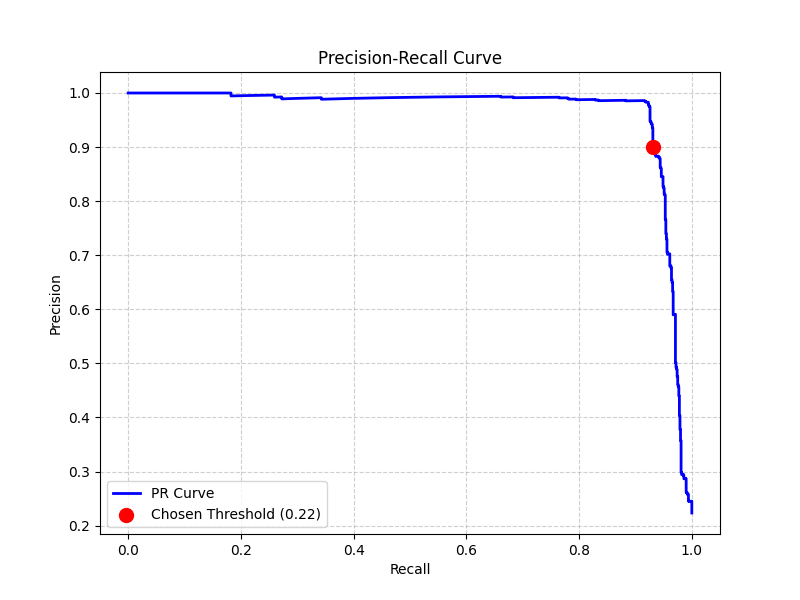
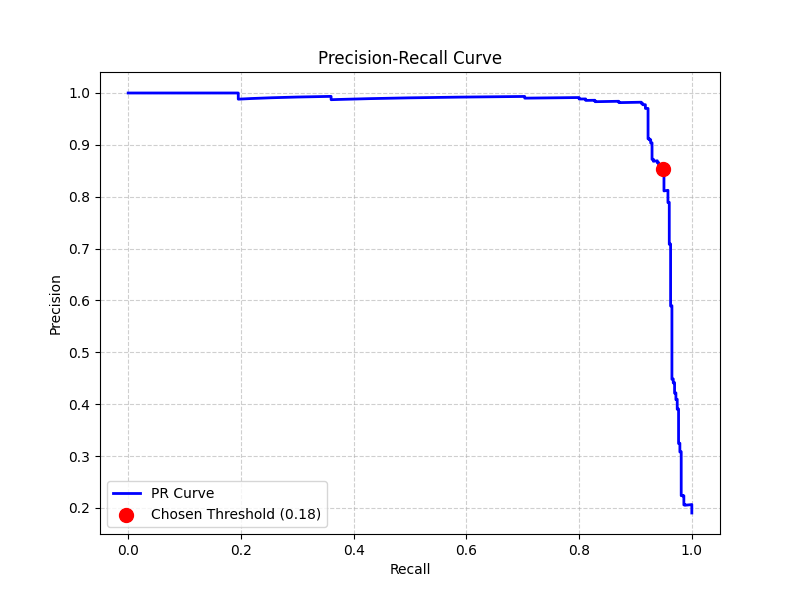
implement strict 3-way data split to prevent evaluation leakage, update README metrics and images

diff --git a/src/evaluate.py b/src/evaluate.py
@@ -43,9 +43,11 @@ def find_optimal_threshold(y_true: NDArray[np.int_], y_probs: NDArray[np.float64
 
 def main() -> None:
     """Evaluates the trained model on the test set with dynamic thresholding and alarm cooldown."""
-    logging.info("Loading test data...")
+    logging.info("Loading validation and test data...")
     try:
         model = joblib.load(config.MODEL_PATH)
+        X_val = np.load(os.path.join(config.DATA_DIR, 'X_val.npy'))
+        y_val = np.load(os.path.join(config.DATA_DIR, 'y_val.npy'))
         X_test = np.load(os.path.join(config.DATA_DIR, 'X_test.npy'))
         y_test = np.load(os.path.join(config.DATA_DIR, 'y_test.npy'))
         t_test = np.load(os.path.join(config.DATA_DIR, 't_test.npy'))
@@ -56,30 +58,35 @@ def main() -> None:
 
     os.makedirs(config.RESULTS_DIR, exist_ok=True)
 
-    y_probs = model.predict_proba(X_test)[:, 1]
+    y_probs_val = model.predict_proba(X_val)[:, 1]
+    optimal_thresh = find_optimal_threshold(y_val, y_probs_val, target_precision=config.TARGET_PRECISION)
+    logging.info(f"Optimal threshold calculated from VALIDATION set: {optimal_thresh:.3f}")
 
-    pr_auc = average_precision_score(y_test, y_probs)
-    roc_auc = roc_auc_score(y_test, y_probs)
-    logging.info(f"Model AUC Metrics - PR-AUC: {pr_auc:.3f} | ROC-AUC: {roc_auc:.3f}")
+    y_probs_test = model.predict_proba(X_test)[:, 1]
 
-    optimal_thresh = find_optimal_threshold(y_test, y_probs, target_precision=config.TARGET_PRECISION)
-    logging.info(f"Optimal threshold calculated: {optimal_thresh:.3f}")
+    pr_auc = average_precision_score(y_test, y_probs_test)
+    roc_auc = roc_auc_score(y_test, y_probs_test)
+    logging.info(f"Test Set AUC Metrics - PR-AUC: {pr_auc:.3f} | ROC-AUC: {roc_auc:.3f}")
 
-    y_pred_raw = (y_probs >= optimal_thresh).astype(int)
+    y_pred_raw = (y_probs_test >= optimal_thresh).astype(int)
     y_pred_filtered = apply_alarm_cooldown(y_pred_raw, config.COOLDOWN_STEPS)
 
     model_report = classification_report(y_test, y_pred_raw, labels=[0, 1], target_names=["Normal", "Incident"])
 
-    logging.info(f"\nMODEL EVALUATION (Raw Predictions):\n{model_report}")
+    logging.info(f"\nMODEL EVALUATION ON TEST SET (Raw Predictions):\n{model_report}")
 
     with open(os.path.join(config.RESULTS_DIR, 'classification_report.txt'), 'w') as f:
-        f.write(f"Optimal Threshold: {optimal_thresh:.3f}\n\n")
+        f.write(f"Optimal Threshold (from Validation Set): {optimal_thresh:.3f}\n\n")
         f.write(model_report)
 
-    plot_predictions(t_test, series_test, y_test, y_pred_filtered, title=f"Predictive Maintenance: Dynamic Threshold ({optimal_thresh:.2f})", save_path=os.path.join(config.RESULTS_DIR, 'predictions_plot.png'))
-    plot_pr_curve(y_test, y_probs, optimal_thresh, save_path=os.path.join(config.RESULTS_DIR, 'pr_curve.png'))
-    plot_feature_importances(model, config.FEATURE_NAMES, save_path=os.path.join(config.RESULTS_DIR, 'feature_importances.png'))
-    plot_confusion_matrix(y_test, y_pred_raw, title=f"Confusion Matrix (Thresh: {optimal_thresh:.2f})", save_path=os.path.join(config.RESULTS_DIR, 'confusion_matrix.png'))
+    plot_predictions(t_test, series_test, y_test, y_pred_filtered,
+                     title=f"Predictive Maintenance: Dynamic Threshold ({optimal_thresh:.2f})",
+                     save_path=os.path.join(config.RESULTS_DIR, 'predictions_plot.png'))
+    plot_pr_curve(y_test, y_probs_test, optimal_thresh, save_path=os.path.join(config.RESULTS_DIR, 'pr_curve.png'))
+    plot_feature_importances(model, config.FEATURE_NAMES,
+                             save_path=os.path.join(config.RESULTS_DIR, 'feature_importances.png'))
+    plot_confusion_matrix(y_test, y_pred_raw, title=f"Confusion Matrix (Thresh: {optimal_thresh:.2f})",
+                          save_path=os.path.join(config.RESULTS_DIR, 'confusion_matrix.png'))
 
     logging.info(f"Evaluation complete")
 

diff --git a/src/prepare_data.py b/src/prepare_data.py
@@ -10,7 +10,7 @@ logging.basicConfig(level=logging.INFO, format='%(asctime)s - %(levelname)s - %(
 
 
 def main() -> None:
-    """Generates synthetic data, applies multiscale sliding windows, and saves train/test splits to disk."""
+    """Generates synthetic data, applies multiscale sliding windows, and saves train/val/test splits to disk."""
     logging.info("Creating directories...")
     os.makedirs(config.DATA_DIR, exist_ok=True)
     os.makedirs(config.MODELS_DIR, exist_ok=True)
@@ -28,18 +28,23 @@ def main() -> None:
 
     logging.info(f"Full Dataset Class distribution: {Counter(y)}")
 
-    split_index = int(len(X) * 0.7)
-    X_train, X_test = X[:split_index], X[split_index:]
-    y_train, y_test = y[:split_index], y[split_index:]
+    # 3-way split: 70% Train, 15% Val, 15% Test
+    split_idx_1 = int(len(X) * 0.70)
+    split_idx_2 = int(len(X) * 0.85)
 
-    test_start_index = split_index + config.LONG_WINDOW
+    X_train, X_val, X_test = X[:split_idx_1], X[split_idx_1:split_idx_2], X[split_idx_2:]
+    y_train, y_val, y_test = y[:split_idx_1], y[split_idx_1:split_idx_2], y[split_idx_2:]
+
+    test_start_index = split_idx_2 + config.LONG_WINDOW
     t_test = t[test_start_index: test_start_index + len(y_test)]
     series_test = series[test_start_index: test_start_index + len(y_test)]
 
     logging.info("Saving datasets...")
     np.save(os.path.join(config.DATA_DIR, 'X_train.npy'), X_train)
+    np.save(os.path.join(config.DATA_DIR, 'X_val.npy'), X_val)
     np.save(os.path.join(config.DATA_DIR, 'X_test.npy'), X_test)
     np.save(os.path.join(config.DATA_DIR, 'y_train.npy'), y_train)
+    np.save(os.path.join(config.DATA_DIR, 'y_val.npy'), y_val)
     np.save(os.path.join(config.DATA_DIR, 'y_test.npy'), y_test)
     np.save(os.path.join(config.DATA_DIR, 't_test.npy'), t_test)
     np.save(os.path.join(config.DATA_DIR, 'series_test.npy'), series_test)

diff --git a/tests/test_pipeline.py b/tests/test_pipeline.py
@@ -1,5 +1,6 @@
 import os
 import sys
+import warnings
 import numpy as np
 from sklearn.ensemble import RandomForestClassifier
 
@@ -31,7 +32,7 @@ def test_calculate_trend() -> None:
 def test_create_multiscale_sliding_window_output_shape() -> None:
     """Ensures the feature matrix dimensions match the expected feature count and series length."""
     series = np.ones(200)
-    labels = np.zeros(200)
+    labels = np.zeros(200, dtype=int)
     short_w, long_w, horizon = 10, 50, 5
 
     X, y = create_multiscale_sliding_window(series, labels, short_w, long_w, horizon)
@@ -46,7 +47,7 @@ def test_create_multiscale_sliding_window_output_shape() -> None:
 def test_create_multiscale_sliding_window_label_correctness() -> None:
     """Validates that the target 'y' correctly identifies anomalies in the future horizon."""
     series = np.zeros(200)
-    labels = np.zeros(200)
+    labels = np.zeros(200, dtype=int)
 
     labels[100] = 1
 
@@ -76,7 +77,10 @@ def test_find_optimal_threshold_edge_cases() -> None:
 
     y_true_neg = np.array([0, 0, 0, 0])
     y_probs_neg = np.array([0.1, 0.2, 0.3, 0.4])
-    thresh_neg = find_optimal_threshold(y_true_neg, y_probs_neg, target_precision=0.90)
+
+    with warnings.catch_warnings():
+        warnings.simplefilter("ignore")
+        thresh_neg = find_optimal_threshold(y_true_neg, y_probs_neg, target_precision=0.90)
 
     assert thresh_neg == 0.4
 

diff --git a/README.md b/README.md
@@ -61,6 +61,8 @@ This is formulated as a binary classification problem using a **sliding-window a
 * **Target ($y$):** $1$ if an incident occurs anywhere in the prediction horizon `[t, t + H]`, otherwise $0$.
 * **Input Matrix ($X$):** Extracted features from the historical window `[t - W, t]`.
 * **Multiscale Windows:** To capture both local anomalies and global context, the model extracts features from two concurrent windows ending at time `t`: a **Short Window** (`W = 20`) to capture sudden behavioral shifts, and a **Long Window** (`W = 100`) to establish a baseline.
+* **Hyperparameter Sensitivity:** Configuration values like HORIZON = 10 and SHORT_WINDOW = 20 were selected as a reasonable lookahead baseline for SRE alerting. A formal grid-search sweep across variable horizons and window lengths is deferred to production tuning, where real-world SLA constraints would dictate the exact operational tradeoff between warning time and model precision.
+
 
 ---
 
@@ -105,20 +107,22 @@ In cloud operations, false positives cause "alert fatigue," leading engineers to
 
 The model was evaluated on a chronologically held-out test set (30% of total data).
 
-**Global ML Metrics:**
-* **PR-AUC:** 0.965
-* **ROC-AUC:** 0.977
+**Global ML Metrics (Test Set):**
+* **PR-AUC:** 0.961
+* **ROC-AUC:** 0.974
 
-**Raw Classification Report (Optimal Threshold: 0.22)**
+**Raw Classification Report (Optimal Validation Threshold: 0.180)**
+
+The probability threshold was strictly calibrated on a separate Validation Set to target 0.90 precision, and then evaluated here on the completely untouched Test Set to guarantee zero data leakage).
 
 | Class | Precision | Recall | F1-Score | Support |
 | :--- | :---: | :---: | :---: | :---: |
-| **Normal** | 0.98 | 0.97 | 0.98 | 3469 |
-| **Incident** | 0.90 | 0.93 | 0.92 | 998 |
+| **Normal** | 0.99 | 0.96 | 0.97 | 1809 |
+| **Incident** | 0.86 | 0.95 | 0.90 | 425 |
 | | | | | |
-| **Accuracy** | | | **0.96** | 4467 |
-| **Macro Avg** | 0.94 | 0.95 | 0.95 | 4467 |
-| **Weighted Avg** | 0.96 | 0.96 | 0.96 | 4467 |
+| **Accuracy** | | | **0.96** | 2234 |
+| **Macro Avg** | 0.92 | 0.96 | 0.94 | 2234 |
+| **Weighted Avg** | 0.96 | 0.96 | 0.96 | 2234 |
 
 
 
@@ -129,7 +133,7 @@ The model was evaluated on a chronologically held-out test set (30% of total dat
 | :---: | :---: |
 | <img src="images/confusion_matrix.png" height="300"> | <img src="images/pr_curve.png" height="300"> |
 
-<p align="center"><i>(Left: The Confusion Matrix showing absolute predictions on the held-out test set. Right: The PR-Curve demonstrating the dynamic threshold selection (Red Dot) to guarantee the 0.90 precision floor).</i></p>
+<p><i>(Left: The Confusion Matrix showing absolute predictions on the held-out test set. Right: The PR-Curve demonstrating the dynamic threshold selection (Red Dot) to guarantee the 0.90 precision floor).</i></p>
 
 
 ### Visualizing the Alerts
@@ -143,6 +147,9 @@ An analysis of the Random Forest feature importances reveals that short-term SRE
 ![Feature Importances](images/feature_importances.png)
 
 To optimize the inference pipeline for production, dead-weight absolute long-term statistics (like `Long_Min` and `Long_p90`) were aggressively pruned. However, `Long_Mean` was strategically retained despite a lower Gini importance score, as empirical testing proved it acts as a critical anchor for the model to understand where it is within the daily diurnal cycle.
+
+### Real-World Considerations
+The synthetic precursor signal provides a detectable early warning for the model to latch onto. Real-world telemetry may require weaker or probabilistic precursors, which would likely introduce more noise and reduce raw recall. The dynamic thresholding engine was built specifically to absorb this anticipated noise in a production environment.
 
 ## Testing & CI/CD Readiness
 
